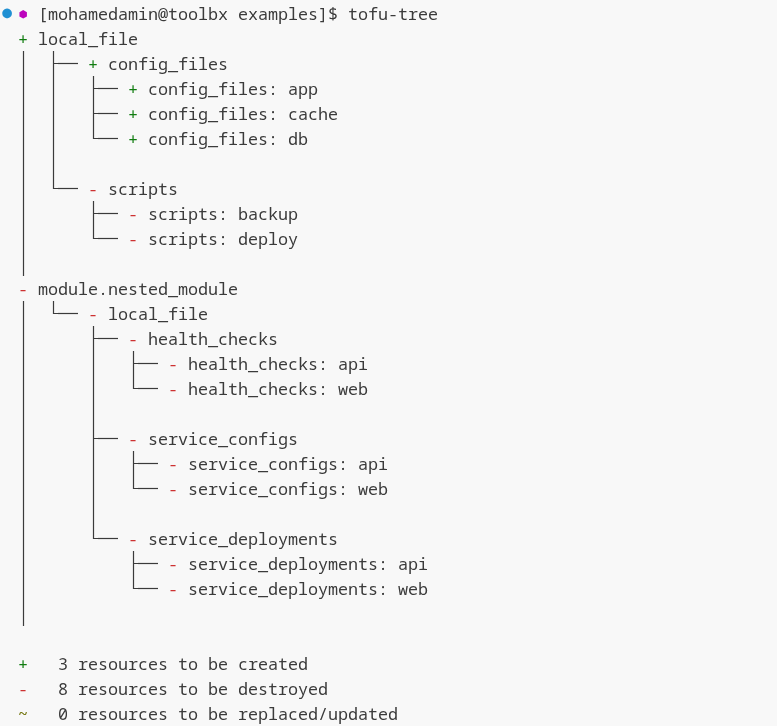
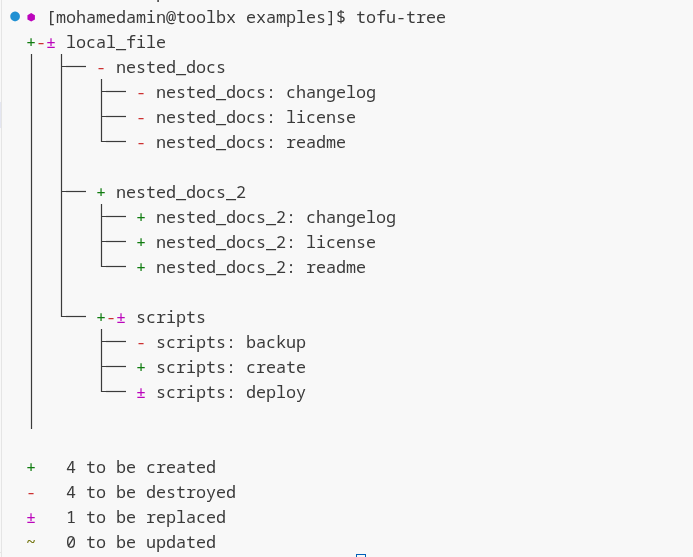
Enhance README and code to support new resource symbol for replacements; update output formatting and symbol handling in the tree printer.

diff --git a/src/tofu_tree/printer.py b/src/tofu_tree/printer.py
@@ -10,12 +10,11 @@ from __future__ import annotations
 import re
 from typing import Any
 
-from tofu_tree.graph import ResourceGraph
-
 # ANSI color codes
 COLOR_GREEN = "\033[32m"
 COLOR_RED = "\033[31m"
 COLOR_YELLOW = "\033[33m"
+COLOR_MAGENTA = "\033[35m"
 COLOR_RESET = "\033[0m"
 
 # Position types
@@ -58,11 +57,68 @@ def color_symbol(symbol: str, use_color: bool = False) -> str:
     color_map = {
         "+": COLOR_GREEN,
         "-": COLOR_RED,
+        "±": COLOR_MAGENTA,
         "~": COLOR_YELLOW,
     }
 
     color_code = color_map.get(symbol, "")
     return f"{color_code}{symbol}{COLOR_RESET}" if color_code else symbol
+
+
+# Symbol display order for concatenation
+SYMBOL_ORDER: list[str] = ["+", "-", "±", "~"]
+
+
+def collect_symbols_from_node(node: dict[str, Any] | list[Any]) -> set[str]:
+    """
+    Recursively collect all unique symbols from a node.
+
+    Args:
+        node: A tree node (dict or list)
+
+    Returns:
+        Set of unique symbol strings found in the node.
+    """
+    symbols: set[str] = set()
+
+    if isinstance(node, list):
+        for item in node:
+            if isinstance(item, dict):
+                if "resource" in item:
+                    symbols.add(item["resource"]["symbol"])
+                if "children" in item:
+                    symbols.update(collect_symbols_from_node(item["children"]))
+    elif isinstance(node, dict):
+        if "resources" in node:
+            for r in node["resources"]:
+                symbols.add(r["symbol"])
+        if "children" in node:
+            symbols.update(collect_symbols_from_node(node["children"]))
+        for key, value in node.items():
+            if key not in ["resources", "children"]:
+                if isinstance(value, (dict, list)):
+                    symbols.update(collect_symbols_from_node(value))
+
+    return symbols
+
+
+def format_symbols(symbols: set[str], use_color: bool = False) -> str:
+    """
+    Format a set of symbols as a concatenated, colored string.
+
+    Args:
+        symbols: Set of symbols to format
+        use_color: Whether to apply ANSI colors
+
+    Returns:
+        Concatenated symbols in order, with colors if enabled.
+    """
+    if not symbols:
+        return ""
+
+    ordered = [s for s in SYMBOL_ORDER if s in symbols]
+    colored = [color_symbol(s, use_color) for s in ordered]
+    return "".join(colored) + " "
 
 
 class TreePrinter:
@@ -138,13 +194,6 @@ class TreePrinter:
         """Get sorted keys excluding internal keys."""
         return sorted([k for k in node if k not in ["children", "resources"]])
 
-    def _format_symbol(self, symbol: str) -> str:
-        """Format symbol with color if enabled."""
-        if not symbol:
-            return ""
-        colored = color_symbol(symbol, self.use_color)
-        return f"{colored} "
-
     def _print_list_node(
         self,
         value: list[Any],
@@ -154,10 +203,8 @@ class TreePrinter:
         is_root_level: bool,
     ) -> None:
         """Print a node that contains a list of indexed items."""
-        all_symbols = self._collect_symbols_from_list(value)
-        symbol_str = self._format_symbol(
-            ResourceGraph.get_aggregate_symbol(all_symbols)
-        )
+        symbols = collect_symbols_from_node(value)
+        symbol_str = format_symbols(symbols, self.use_color)
 
         if is_root_level:
             print(f"{symbol_str}{key}")
@@ -212,12 +259,8 @@ class TreePrinter:
         child_keys = sorted([k for k in children if k != "resources"])
         has_resources = "resources" in children
 
-        all_symbols = self._collect_symbols_from_dict_with_children(
-            children, child_keys
-        )
-        symbol_str = self._format_symbol(
-            ResourceGraph.get_aggregate_symbol(all_symbols)
-        )
+        symbols = collect_symbols_from_node(value)
+        symbol_str = format_symbols(symbols, self.use_color)
 
         if is_root_level:
             print(f"{symbol_str}{key}")
@@ -258,18 +301,14 @@ class TreePrinter:
 
             child_value = children[child_key]
             if isinstance(child_value, dict) and "children" in child_value:
-                child_symbols = ResourceGraph.get_resource_symbols(child_value)
-                child_symbol_str = self._format_symbol(
-                    ResourceGraph.get_aggregate_symbol(child_symbols)
-                )
+                child_symbols = collect_symbols_from_node(child_value)
+                child_symbol_str = format_symbols(child_symbols, self.use_color)
                 print(f"{child_prefix}{child_symbol_str}{child_key}")
                 self.print_tree(child_value["children"], child_next_inherited)
             elif isinstance(child_value, list):
-                all_symbols = self._collect_symbols_from_list(child_value)
-                symbol_str = self._format_symbol(
-                    ResourceGraph.get_aggregate_symbol(all_symbols)
-                )
-                print(f"{child_prefix}{symbol_str}{child_key}")
+                child_symbols = collect_symbols_from_node(child_value)
+                child_symbol_str = format_symbols(child_symbols, self.use_color)
+                print(f"{child_prefix}{child_symbol_str}{child_key}")
                 sorted_items = sorted(child_value, key=lambda x: x.get("key", ""))
                 for k, item in enumerate(sorted_items):
                     item_position = self._get_position(k, len(sorted_items))
@@ -294,10 +333,8 @@ class TreePrinter:
         is_root_level: bool,
     ) -> None:
         """Print a dict node that has resources."""
-        all_symbols = [r["symbol"] for r in value["resources"]]
-        symbol_str = self._format_symbol(
-            ResourceGraph.get_aggregate_symbol(all_symbols)
-        )
+        symbols = collect_symbols_from_node(value)
+        symbol_str = format_symbols(symbols, self.use_color)
 
         if is_root_level:
             print(f"{symbol_str}{key}")
@@ -331,10 +368,8 @@ class TreePrinter:
         is_root_level: bool,
     ) -> None:
         """Print a dict node without explicit children or resources."""
-        all_symbols = ResourceGraph.get_resource_symbols(value)
-        symbol_str = self._format_symbol(
-            ResourceGraph.get_aggregate_symbol(all_symbols)
-        )
+        symbols = collect_symbols_from_node(value)
+        symbol_str = format_symbols(symbols, self.use_color)
 
         if is_root_level:
             print(f"{symbol_str}{key}")
@@ -383,30 +418,6 @@ class TreePrinter:
         """Extract resource name from address, removing index brackets."""
         return re.sub(r"\[.*\]", "", address.split(".")[-1])
 
-    def _collect_symbols_from_list(self, items: list[Any]) -> list[str]:
-        """Collect all symbols from a list of items."""
-        symbols: list[str] = []
-        for item in items:
-            if "resource" in item:
-                symbols.append(item["resource"]["symbol"])
-            elif "children" in item:
-                symbols.extend(ResourceGraph.get_resource_symbols(item["children"]))
-        return symbols
-
-    def _collect_symbols_from_dict_with_children(
-        self, children: dict[str, Any], child_keys: list[str]
-    ) -> list[str]:
-        """Collect symbols from a dict with children."""
-        all_symbols: list[str] = []
-
-        if "resources" in children:
-            all_symbols.extend([r["symbol"] for r in children["resources"]])
-
-        for child_key in child_keys:
-            all_symbols.extend(ResourceGraph.get_resource_symbols(children[child_key]))
-
-        return all_symbols
-
     def print_summary(self, resources: list[dict[str, str]]) -> None:
         """
         Print summary of resource changes.
@@ -419,23 +430,19 @@ class TreePrinter:
 
         created_symbol = color_symbol("+", self.use_color)
         destroyed_symbol = color_symbol("-", self.use_color)
-        modified_symbol = color_symbol("~", self.use_color)
+        replaced_symbol = color_symbol("±", self.use_color)
+        updated_symbol = color_symbol("~", self.use_color)
 
-        print(
-            f"{created_symbol} {counts['+']:{SUMMARY_WIDTH}d} resources to be created"
-        )
-        print(
-            f"{destroyed_symbol} {counts['-']:{SUMMARY_WIDTH}d} resources to be destroyed"
-        )
-        print(
-            f"{modified_symbol} {counts['~']:{SUMMARY_WIDTH}d} resources to be replaced/updated"
-        )
+        print(f"{created_symbol} {counts['+']:{SUMMARY_WIDTH}d} to be created")
+        print(f"{destroyed_symbol} {counts['-']:{SUMMARY_WIDTH}d} to be destroyed")
+        print(f"{replaced_symbol} {counts['±']:{SUMMARY_WIDTH}d} to be replaced")
+        print(f"{updated_symbol} {counts['~']:{SUMMARY_WIDTH}d} to be updated")
 
     def _count_resources_by_symbol(
         self, resources: list[dict[str, str]]
     ) -> dict[str, int]:
         """Count resources grouped by their symbol."""
-        counts: dict[str, int] = {"+": 0, "-": 0, "~": 0}
+        counts: dict[str, int] = {"+": 0, "-": 0, "±": 0, "~": 0}
 
         for resource in resources:
             symbol = resource.get("symbol", "?")

diff --git a/src/tofu_tree/graph.py b/src/tofu_tree/graph.py
@@ -14,12 +14,12 @@ from typing import Any
 ACTION_SYMBOLS: dict[str, str] = {
     "created": "+",
     "destroyed": "-",
-    "replaced": "~",
+    "replaced": "±",
     "updated": "~",
 }
 
-# Symbol priority for aggregation (order matters: create > destroy > modify)
-SYMBOL_PRIORITY: list[str] = ["+", "-", "~"]
+# Symbol priority for aggregation (order matters: create > destroy > replace > update)
+SYMBOL_PRIORITY: list[str] = ["+", "-", "±", "~"]
 
 
 class ResourceGraph:
@@ -253,7 +253,7 @@ def parse_plan_output(lines: list[str]) -> list[dict[str, str]]:
     in_plan_section = False
 
     resource_pattern = re.compile(
-        r"^\s*#\s+(.+?)\s+will be\s+(created|destroyed|replaced|updated)"
+        r"^\s*#\s+(.+?)\s+(?:will be|must be)\s+(created|destroyed|replaced|updated)"
     )
 
     for line in lines:

diff --git a/README.md b/README.md
@@ -20,16 +20,13 @@
   Transform your <code>terraform plan</code> or <code>tofu plan</code> output into an easy-to-read hierarchical tree structure with color-coded change indicators.
 </p>
 
-<p align="center">
-  <img src="https://raw.githubusercontent.com/Samet-MohamedAmin/tofu-tree/main/assets/screenshot-demo.png" alt="screenshot showing tofu-tree output" width="700">
-</p>
 
 ---
 
 ## ✨ Features
 
 - 🌳 **Beautiful Tree Output** — Visualize your Terraform plan as a clean, hierarchical tree
-- 🎨 **Color-Coded Symbols** — Instantly see what's being created (+), destroyed (-), or modified (~)
+- 🎨 **Color-Coded Symbols** — Instantly see what's being created (+), destroyed (-), replaced (±), or updated (~)
 - 🔄 **Auto-Detection** — Automatically finds and runs `tofu` or `terraform` in your PATH
 - 📊 **Summary Statistics** — Quick overview of total changes at a glance
 - 📦 **Zero Dependencies** — Pure Python, works out of the box
@@ -88,58 +85,49 @@ options:
 ## 🎬 Example Output
 
 ```
-+ local_file
-│  ├── + config_files
-│  │   ├── + config_files: app
-│  │   ├── + config_files: cache
-│  │   └── + config_files: db
++-± local_file
+│  ├── - nested_docs
+│  │   ├── - nested_docs: changelog
+│  │   ├── - nested_docs: license
+│  │   └── - nested_docs: readme
 │  │
-│  ├── + nested_docs
-│  │   ├── + nested_docs: changelog
-│  │   ├── + nested_docs: license
-│  │   └── + nested_docs: readme
+│  ├── + nested_docs_2
+│  │   ├── + nested_docs_2: changelog
+│  │   ├── + nested_docs_2: license
+│  │   └── + nested_docs_2: readme
 │  │
-│  └── + scripts
-│      ├── + scripts: backup
-│      └── + scripts: deploy
-│
-+ module.nested_module
-│  └── + local_file
-│      ├── + health_checks
-│      │   ├── + health_checks: api
-│      │   ├── + health_checks: web
-│      │   └── + health_checks: worker
-│      │
-│      ├── + service_configs
-│      │   ├── + service_configs: api
-│      │   ├── + service_configs: web
-│      │   └── + service_configs: worker
-│      │
-│      └── + service_deployments
-│          ├── + service_deployments: api
-│          ├── + service_deployments: web
-│          └── + service_deployments: worker
+│  └── +-± scripts
+│      ├── - scripts: backup
+│      ├── + scripts: create
+│      └── ± scripts: deploy
 │
 
-+ 20 resources to be created
--  0 resources to be destroyed
-~  0 resources to be replaced/updated
++   4 to be created
+-   4 to be destroyed
+±   1 to be replaced
+~   0 to be updated
 ```
+
+<p align="center">
+  <img src="https://raw.githubusercontent.com/Samet-MohamedAmin/tofu-tree/main/assets/screenshot-demo.png" alt="screenshot showing tofu-tree output" width="700">
+</p>
+
 
 ### Symbol Legend
 
 | Symbol | Color  | Meaning |
 |--------|--------|---------|
-| `+`    | 🟢 Green  | Resource will be created |
-| `-`    | 🔴 Red    | Resource will be destroyed |
-| `~`    | 🟡 Yellow | Resource will be modified/replaced |
+| `+`    | 🟢 Green   | Resource will be created |
+| `-`    | 🔴 Red     | Resource will be destroyed |
+| `±`    | 🟣 Magenta | Resource will be replaced (destroy + create) |
+| `~`    | 🟡 Yellow  | Resource will be updated in-place |
 
 ## 🔧 How It Works
 
 1. **Parse** — Reads Terraform/OpenTofu plan output (concise format with `-concise` flag)
 2. **Build** — Constructs a hierarchical graph from resource addresses
 3. **Display** — Renders the graph as a tree with proper connectors (├──, └──)
-4. **Summarize** — Shows counts of created, destroyed, and modified resources
+4. **Summarize** — Shows counts of created, destroyed, replaced, and updated resources
 
 ## 🤝 Contributing
 
